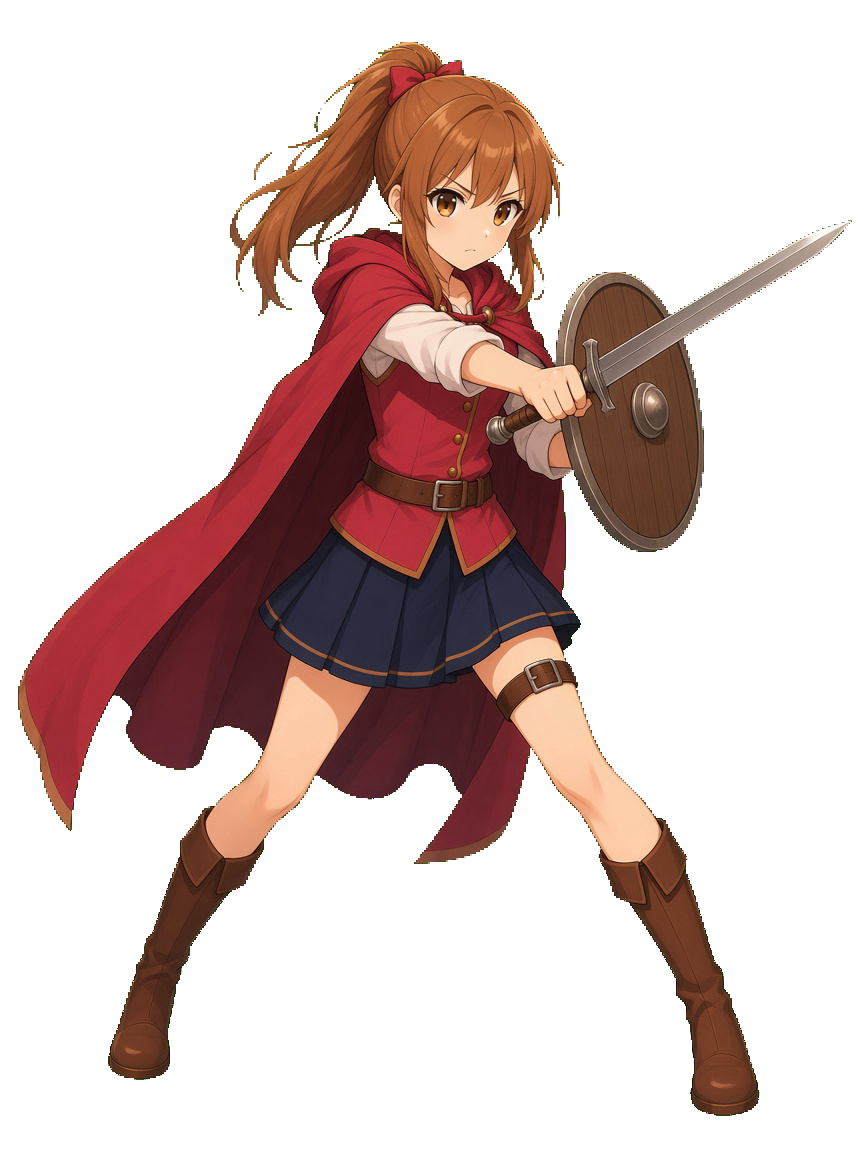
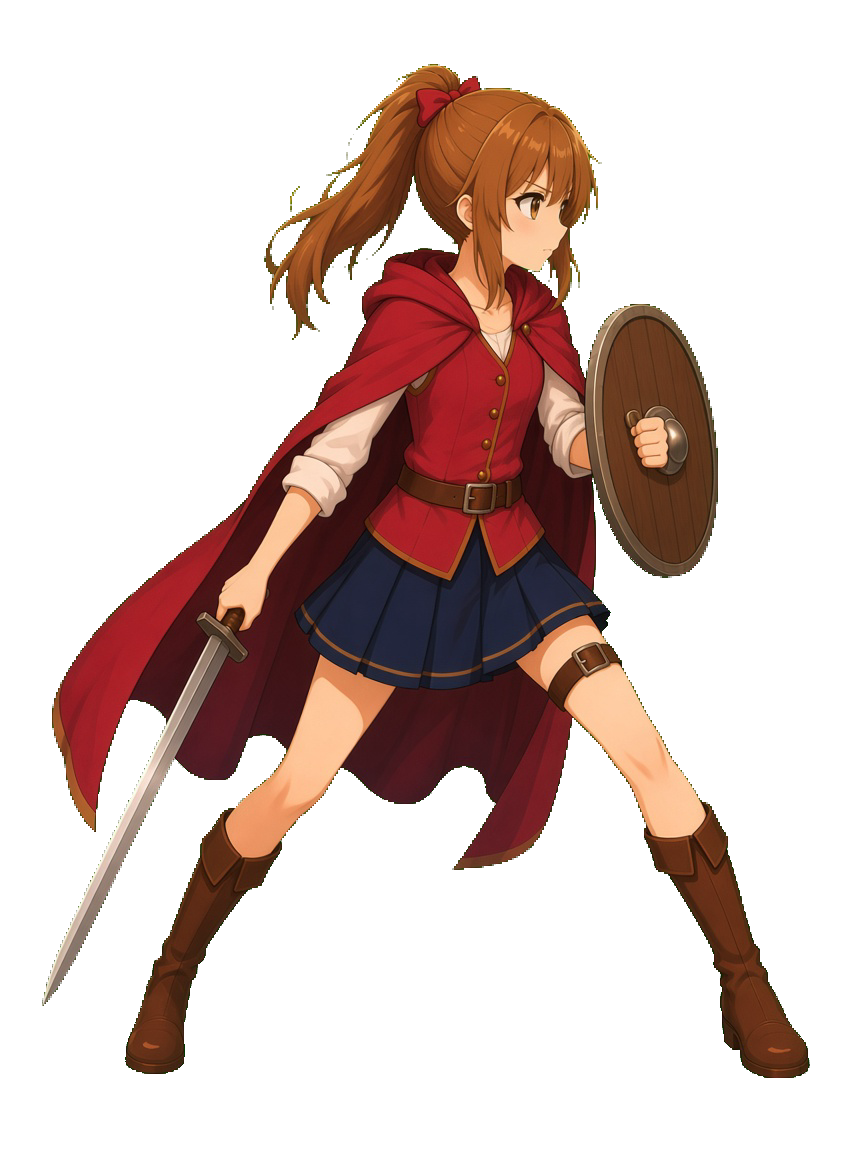
Turn the battle gaze to the enemy, raise the shield, and let the sword reach the feet.

Changed region(s): [[0.0, 0.0312, 0.9688, 0.9688]]

diff --git a/index.html b/index.html
@@ -4469,7 +4469,7 @@
     let castShown = "";
     const CAST = [
       { name: "戦士", stand: "job-front.png?v=5", chibi: "job-warrior.png?v=9", action: "job-action.jpg?v=3", battle: "hero-shoulder.png?v=25", battleRatio: "864 / 1152", defeat: "warrior-defeat.png?v=3", victory: "warrior-victory.png?v=3" },
-      { name: "女の戦士", stand: "girl-front.png?v=9", chibi: "job-girl.png?v=3", action: "girl-action.jpg?v=1", battle: "girl-battle.png?v=11", battleRatio: "864 / 1152", defeat: "girl-defeat.png?v=8", victory: "girl-victory.png?v=9" },
+      { name: "女の戦士", stand: "girl-front.png?v=9", chibi: "job-girl.png?v=3", action: "girl-action.jpg?v=1", battle: "girl-battle.png?v=13", battleRatio: "864 / 1152", defeat: "girl-defeat.png?v=8", victory: "girl-victory.png?v=9" },
     ];
     let heroCast = "戦士";
     function heroItem() { return castByName(heroCast); }
@@ -7445,7 +7445,7 @@
             <h3>女の戦士</h3>
             <div class="ref-grid pose-grid">
               ${sheetFig("girl-front.png?v=9", "キャラデザ", "cut-ref")}
-              ${sheetFig("girl-battle.png?v=11", "戦闘", "cut-ref")}
+              ${sheetFig("girl-battle.png?v=13", "戦闘", "cut-ref")}
             </div>
             <div class="ref-grid">
               ${sheetFig("girl-defeat.png?v=8", "敗北", "land-ref", "wide-land")}
